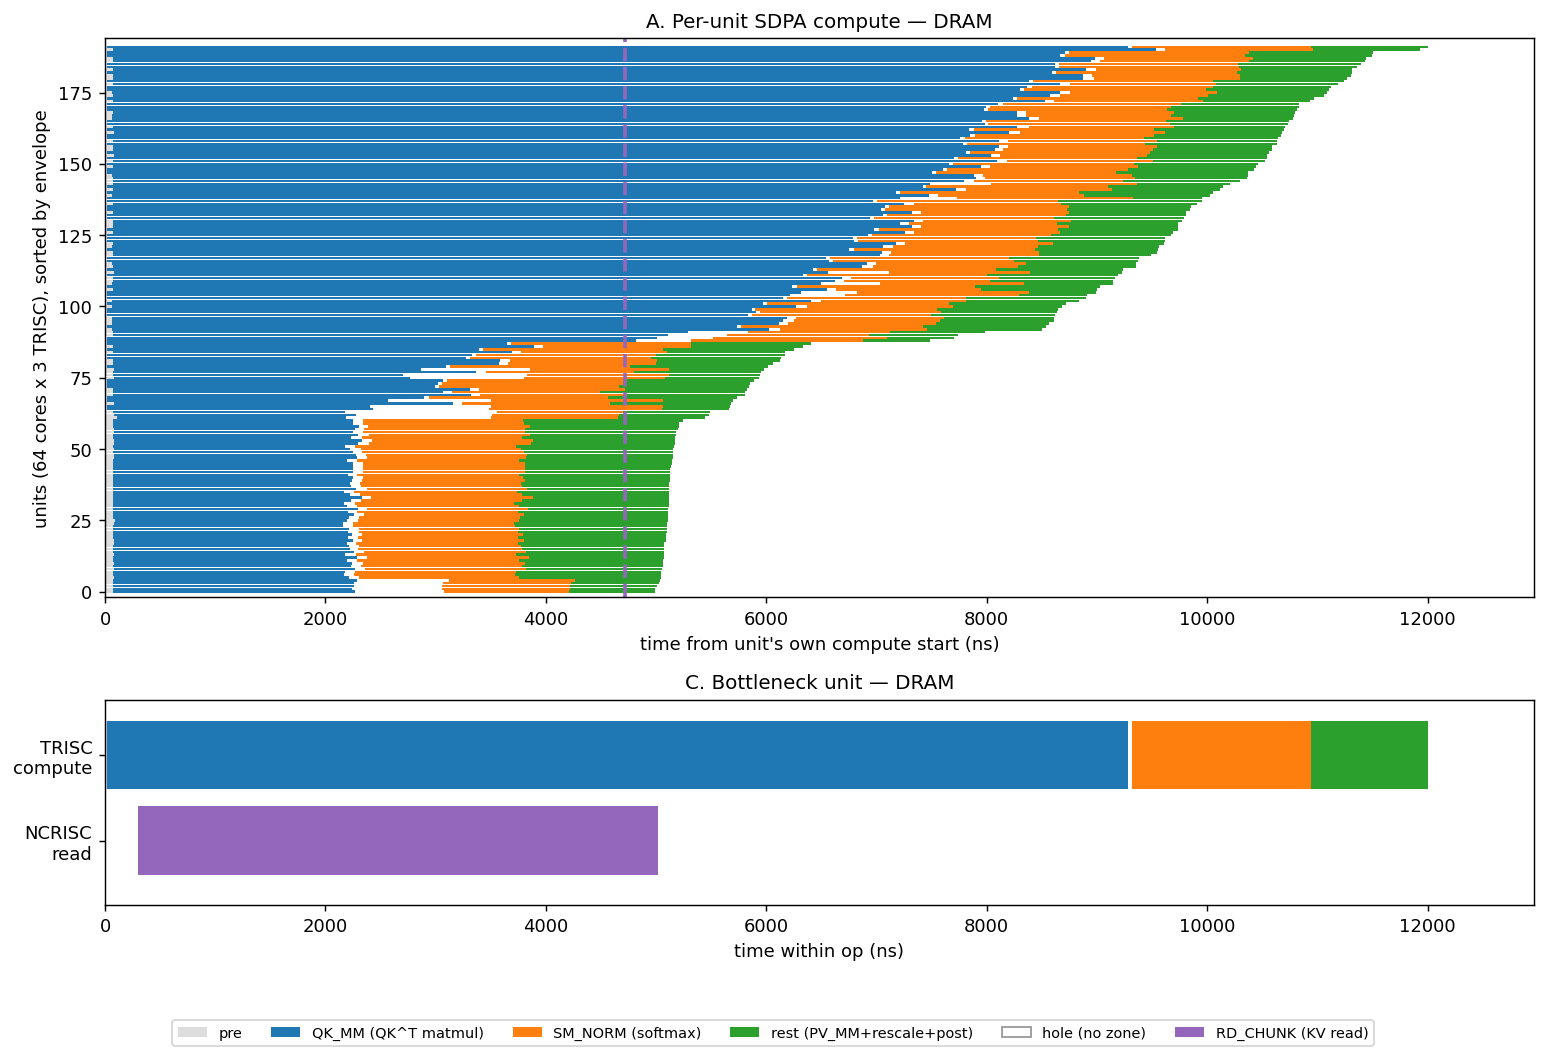
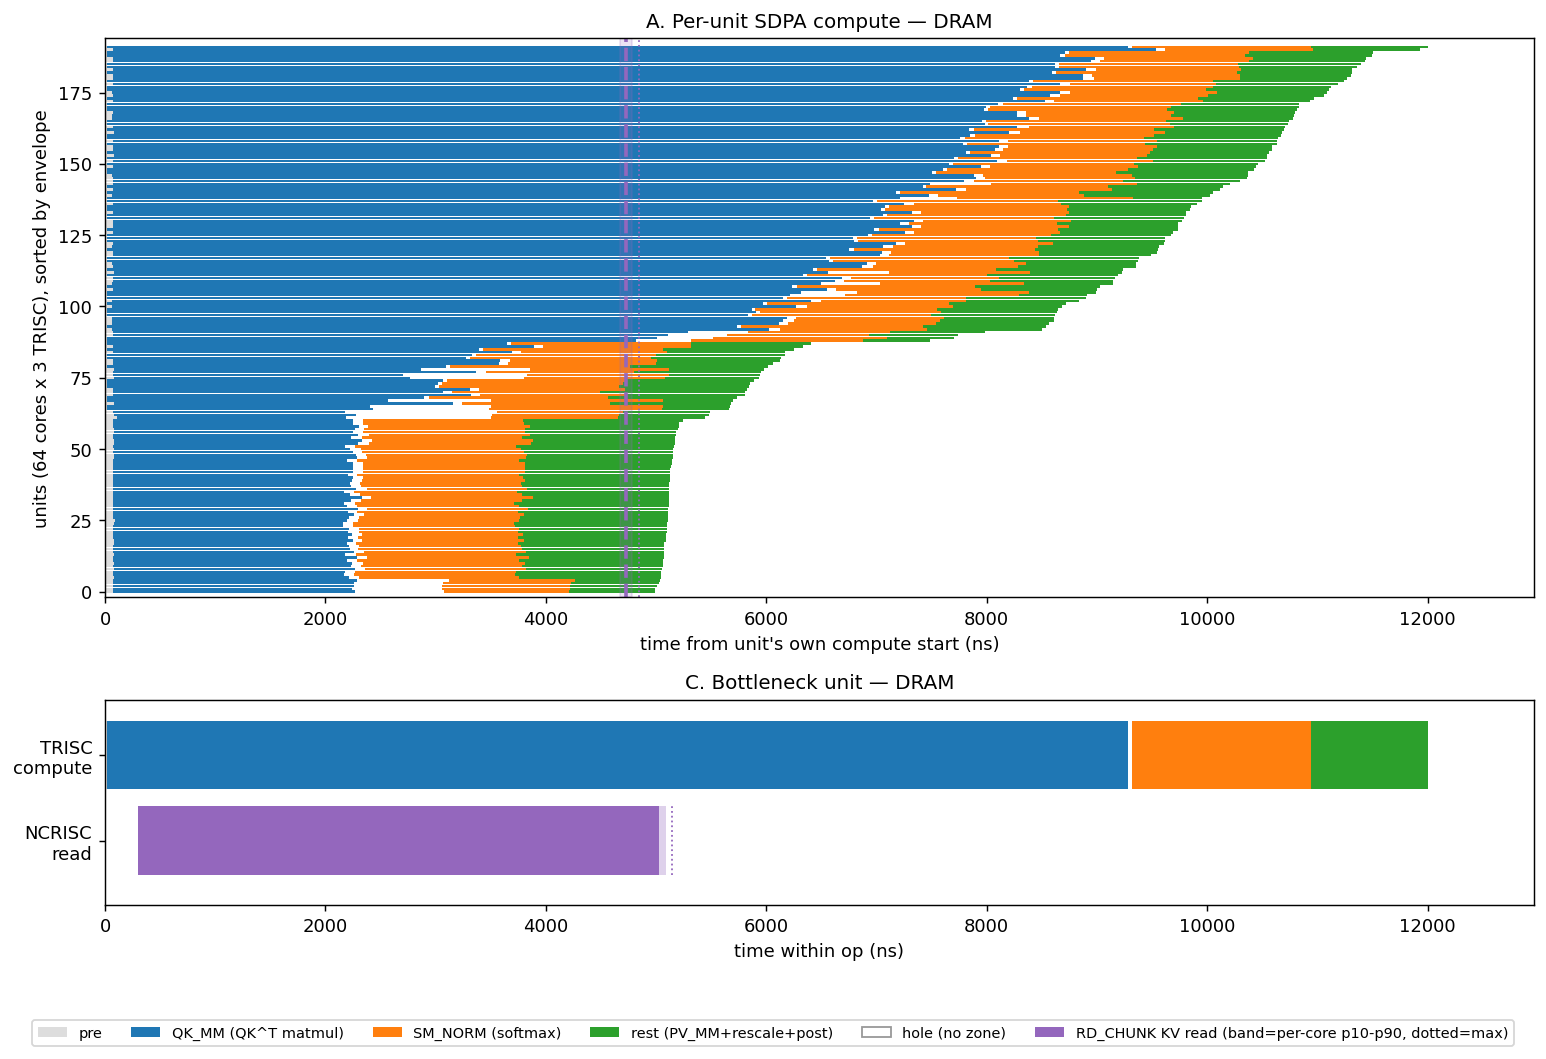
Add some document and images

Changed region(s): [[0.0, 0.966, 0.9935, 0.9972], [0.3726, 0.3116, 0.4347, 0.5609], [0.4036, 0.7479, 0.4347, 0.8102]]

diff --git a/research_codes/documents/l1_kv_cache_cache/reprofile/draw_bigpicture.py b/research_codes/documents/l1_kv_cache_cache/reprofile/draw_bigpicture.py
@@ -101,10 +101,21 @@ def load_units(tag):
     return units
 
 
-def rd_median(readtag):
+def rd_stats(readtag):
+    # Per-core RD_CHUNK durations. Return the DISTRIBUTION (p10/median/p90/max), not a single
+    # number: DRAM reads are near-uniform across cores (~5%), but L1 reads have a fat tail
+    # (NoC hop/contention), so a single line would misrepresent L1. Durations only (cross-core
+    # absolute placement is not constructible: per-core counters are on different epochs).
     z = parse(f"{BASE}/zones_rw_{readtag}/profile_log_device.csv", {"RD_CHUNK"})
-    d = [(e - s) * C2NS for _, zn, s, e in z]
-    return st.median(d) if d else 0.0
+    percore = defaultdict(list)
+    for key, zn, s, e in z:
+        percore[key[0]].append((e - s) * C2NS)
+    d = sorted(st.median(v) for v in percore.values())  # per-core medians
+    if not d:
+        return (0.0, 0.0, 0.0, 0.0)
+    m = len(d)
+    pct = lambda p: d[min(m - 1, int(p * (m - 1)))]
+    return (pct(0.1), pct(0.5), pct(0.9), d[-1])
 
 
 def holes(tag):
@@ -119,7 +130,7 @@ def holes(tag):
 
 def draw_backend(tag, readtag, label, out):
     units = load_units(tag)
-    rd = rd_median(readtag)
+    rd_p10, rd_med, rd_p90, rd_max = rd_stats(readtag)
     n = len(units)
     maxcmp = units[-1]["cmp"]
     fig, (axA, axC) = plt.subplots(2, 1, figsize=(12, 8), gridspec_kw={"height_ratios": [3, 1.1]})
@@ -135,7 +146,10 @@ def draw_backend(tag, readtag, label, out):
                 continue
             axA.broken_barh([(x, w)], (i - 0.45, 0.9), facecolors=FILL[name])
             x += w
-    axA.axvline(rd, color="#9467bd", lw=2.0, ls="--")
+    # KV read shown as a per-core band [p10,p90] + median + max tail, NOT a single line.
+    axA.axvspan(rd_p10, rd_p90, color="#9467bd", alpha=0.18)
+    axA.axvline(rd_med, color="#9467bd", lw=2.0, ls="--")
+    axA.axvline(rd_max, color="#9467bd", lw=1.0, ls=":")
     axA.set_xlim(0, maxcmp * 1.08)
     axA.set_ylim(-2, n + 2)
     axA.set_ylabel("units (64 cores x 3 TRISC), sorted by envelope")
@@ -153,7 +167,10 @@ def draw_backend(tag, readtag, label, out):
             continue
         axC.broken_barh([(x, w)], (0.55, 0.8), facecolors=FILL[name])
         x += w
-    axC.broken_barh([(300, rd)], (-0.45, 0.8), facecolors="#9467bd")
+    # read bar to per-core median, lighter band median->p90, dotted whisker to max tail
+    axC.broken_barh([(300, rd_med)], (-0.45, 0.8), facecolors="#9467bd")
+    axC.broken_barh([(300 + rd_med, rd_p90 - rd_med)], (-0.45, 0.8), facecolors="#9467bd", alpha=0.3)
+    axC.plot([300 + rd_max, 300 + rd_max], [-0.45, 0.35], color="#9467bd", lw=1.0, ls=":")
     axC.set_yticks([-0.05, 0.95])
     axC.set_yticklabels(["NCRISC\nread", "TRISC\ncompute"])
     axC.set_ylim(-0.8, 1.6)
@@ -162,11 +179,15 @@ def draw_backend(tag, readtag, label, out):
     axC.set_title(f"C. Bottleneck unit — {label}", fontsize=11)
     leg = [Patch(facecolor=c, label=lab) for _, c, lab in DRAWN]
     leg.append(Patch(facecolor="white", edgecolor="#999", label="hole (no zone)"))
-    leg.append(Patch(facecolor="#9467bd", label="RD_CHUNK (KV read)"))
+    leg.append(Patch(facecolor="#9467bd", label="RD_CHUNK KV read (band=per-core p10-p90, dotted=max)"))
     fig.legend(handles=leg, loc="lower center", ncol=6, fontsize=8, bbox_to_anchor=(0.5, -0.02))
     fig.tight_layout(rect=[0, 0.05, 1, 1])
     fig.savefig(out, dpi=130, bbox_inches="tight")
-    print("wrote", out, f"(units={n}, maxcmp={maxcmp:.0f}, rd={rd:.0f})")
+    print(
+        "wrote",
+        out,
+        f"(units={n}, maxcmp={maxcmp:.0f}, rd p10/med/p90/max={rd_p10:.0f}/{rd_med:.0f}/{rd_p90:.0f}/{rd_max:.0f})",
+    )
 
 
 def draw_hole_cdf(out):

diff --git a/research_codes/documents/l1_kv_cache_cache/COMPUTE_BOUND_PROOF.md b/research_codes/documents/l1_kv_cache_cache/COMPUTE_BOUND_PROOF.md
@@ -247,13 +247,20 @@ tok/s (measured 20.95, up from 20.90). This is why L1 reaches exact host parity 
 - **`dram_bigpicture.png` / `sram_bigpicture.png`** — per-backend SDPA-decode big picture.
   *Panel A:* each of the 192 (core × TRISC) units' compute timeline, sorted by envelope length;
   segments `pre | QK_MM | <hole> | SM_NORM | rest(PV_MM+rescale+post)` sum to the unit's CMP_CHUNK.
-  The QK_MM→SM_NORM interval is left BLANK (a hole — no zone covers it, Section 7). The dashed line
-  is the per-chunk KV read (RD_CHUNK); it sits left of every unit ⇒ read is hidden on every core.
-  *Panel C:* the bottleneck unit (longest envelope, sets op latency) with its read bar — the read
-  ends inside the QK^T matmul alone. The two charts are near-identical: SDPA compute is the same
-  whether KV is in DRAM or SRAM. (The SRAM Panels omit the small green PV/rest tail — the
-  CMP_CHUNK envelope zone is dropped by the profiler on the L1 path, so the SRAM timeline ends at
-  SM_NORM; QK_MM-dominance, the hole, and read-hidden are unaffected.)
+  The QK_MM→SM_NORM interval is left BLANK (a hole — no zone covers it, Section 7). The KV read
+  (RD_CHUNK) is drawn as a **per-core distribution, not a single line**: a shaded band spanning the
+  per-core p10-p90, a dashed median, and a dotted line at the per-core max. This is deliberate — the
+  read is *not* uniform across cores in general. Measured per-core read medians: **DRAM 4609-4845 ns
+  (1.05x spread, band collapses to ~a line because flash-decode splits the context evenly across the
+  64 cores and DRAM-bank latency is balanced); SRAM/L1 4399-6508 ns (1.48x, all-sample tail to
+  ~10100 ns)** because the sharded KV is pulled over the NoC with variable hop distance/contention.
+  Even the L1 max tail sits left of the compute envelope ⇒ read still hidden on every core, now shown
+  honestly rather than as a fake uniform line. (Only read *durations* are plotted, anchored at each
+  row's own compute start — per-core absolute placement on a shared clock is not constructible:
+  per-core counters are on different epochs.) *Panel C:* the bottleneck unit (longest envelope, sets
+  op latency); its read bar runs to the per-core median with a lighter band to p90 and a dotted
+  whisker to the max — the read ends inside the QK^T matmul alone. The two charts are near-identical:
+  SDPA compute is the same whether KV is in DRAM or SRAM.
 - **`hole_cdf_l1_vs_dram.png`** — CDF of the QK_MM→SM_NORM hole duration, SRAM vs DRAM. The two
   curves coincide (p90 ~590 vs ~541 ns; >500 ns tail ~12% both) ⇒ the hole is memory-invariant, so
   it is not a read wait (Section 7).
